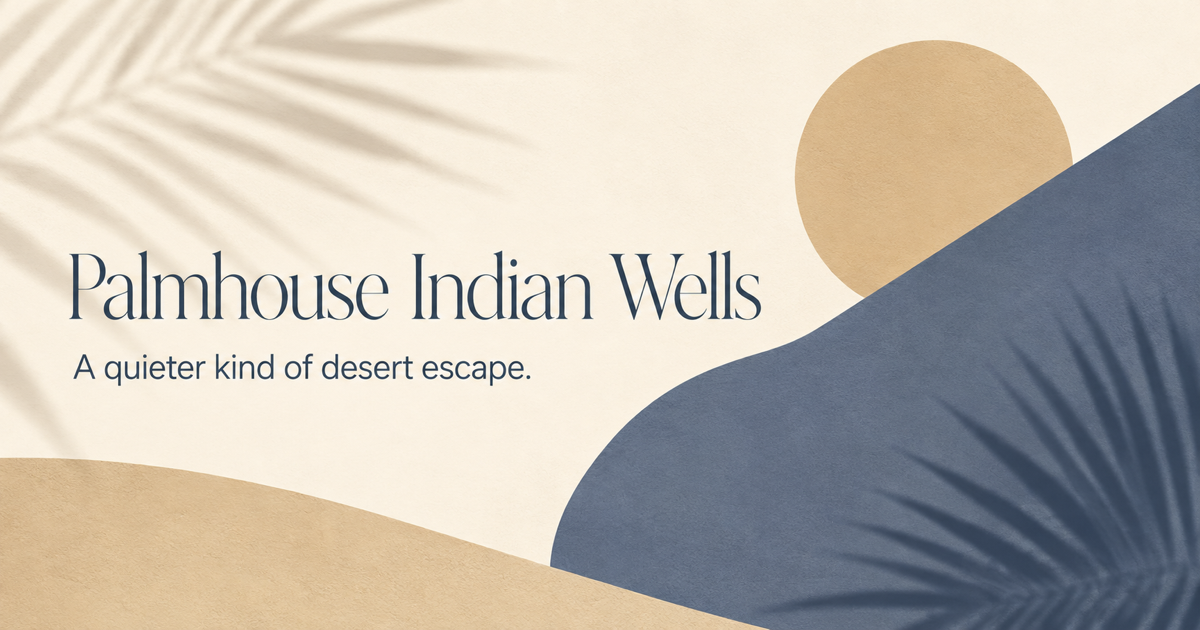
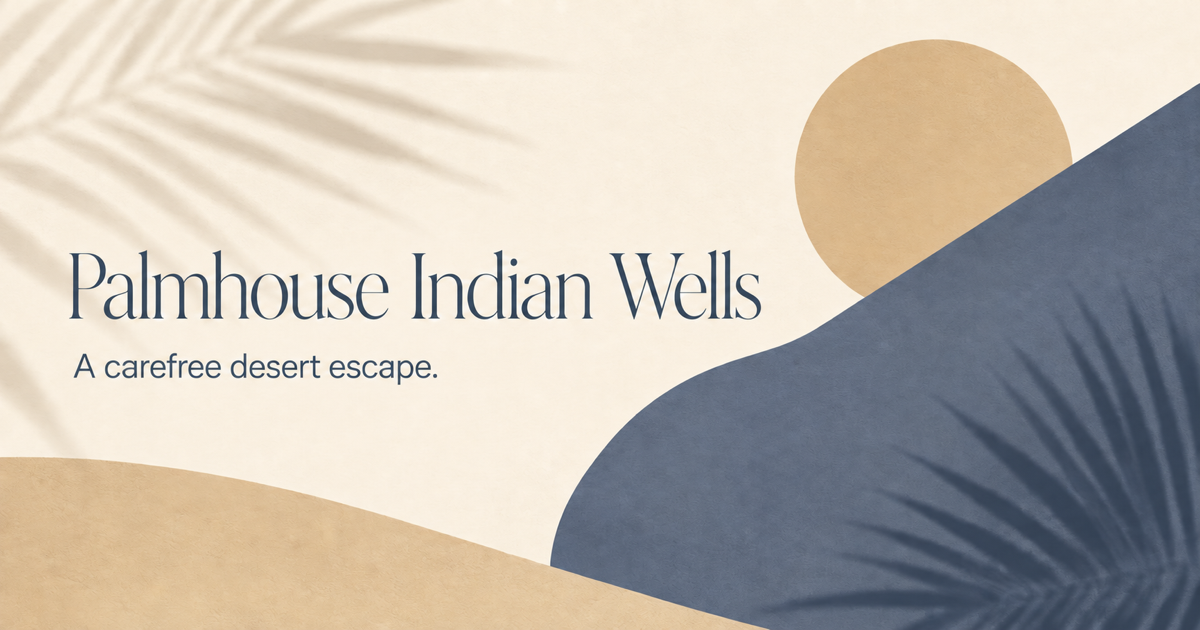
Apply final homepage copy and card refinements

diff --git a/app/page.tsx b/app/page.tsx
@@ -284,7 +284,7 @@ export default function Home() {
 
       <section className="hero" aria-labelledby="hero-title">
         <div className="hero-copy">
-          <h1 id="hero-title">A quieter kind of <em>desert escape.</em></h1>
+          <h1 id="hero-title">A carefree <em>desert escape.</em></h1>
           <p className="hero-intro">
             A private three-bedroom retreat with a pool, spa, and room to settle in—just
             minutes from world-class tennis, golf, and the best of the Coachella Valley.
@@ -358,7 +358,7 @@ export default function Home() {
       <section className="gallery-section" id="gallery" aria-labelledby="gallery-title">
         <div className="gallery-heading">
           <div>
-            <h2 id="gallery-title">Made for<br /><em>slow mornings.</em></h2>
+            <h2 id="gallery-title">For any occasion<br /><em>picture yourself here.</em></h2>
           </div>
           <button className="text-button" type="button" onClick={() => setActivePhoto(0)}>
             View all {photos.length} photos <span>↗</span>
@@ -381,24 +381,24 @@ export default function Home() {
 
       <section className="availability-section" id="stay" aria-labelledby="availability-title">
         <div className="availability-intro">
-          <h2 id="availability-title">Find your place<br /><em>in the sun.</em></h2>
+          <h2 id="availability-title">Claim your place<br /><em>in the sun.</em></h2>
           <p>
-            This calendar reads current availability from the Evolve listing. Select a
-            possible stay, then continue to Evolve for the latest rate, policies, and secure
-            booking.
+            View availability below. Then, select <strong>BOOK YOUR STAY</strong> which will
+            take you to our booking agent website, Evolve, for the latest rates, policies and
+            secure booking.
           </p>
           <div className="calendar-legend">
             <span><i className="available-dot" /> Available</span>
             <span><i className="unavailable-dot" /> Booked</span>
             <span><i className="limited-dot" /> Checkout only</span>
           </div>
-          <p className="source-note">
-            {calendarError
-              ? 'Live calendar is temporarily unavailable. Evolve has the current dates.'
-              : calendar
-                ? 'Live availability loaded from Evolve.'
+          {!calendar && (
+            <p className="source-note">
+              {calendarError
+                ? 'Live calendar is temporarily unavailable. Evolve has the current dates.'
                 : 'Loading live availability…'}
-          </p>
+            </p>
+          )}
         </div>
         <div className="calendar-panel">
           <div className="calendar-controls">
@@ -482,7 +482,6 @@ export default function Home() {
         <div className="destination-grid">
           {siteContent.destinations.map((item) => (
             <a href={item.href} target="_blank" rel="noreferrer" key={item.title}>
-              <span className="destination-number">{item.number}</span>
               <p>{item.label}</p>
               <h3>{item.title}</h3>
               <div><span>{item.copy}</span><strong>{item.meta}</strong></div>
@@ -508,9 +507,8 @@ export default function Home() {
             </p>
           </div>
           <div className="season-grid">
-            {siteContent.seasons.map((block, index) => (
+            {siteContent.seasons.map((block) => (
               <article key={block.season}>
-                <span>0{index + 1}</span>
                 <p>{block.season}</p>
                 <h3>{block.tone}</h3>
                 <ul>

diff --git a/app/globals.css b/app/globals.css
@@ -911,21 +911,11 @@ h2 em {
   color: var(--ink);
 }
 
-.destination-number {
-  color: var(--sand);
-  font-family: var(--serif);
-  font-size: 17px;
-}
-
-.destination-grid > a:hover .destination-number {
-  color: var(--clay);
-}
-
 .destination-grid > a > p {
   font-size: 12px;
   font-weight: 700;
   letter-spacing: 0.17em;
-  margin-top: 38px;
+  margin-top: 0;
   text-transform: uppercase;
 }
 
@@ -1070,18 +1060,12 @@ h2 em {
   padding: 28px;
 }
 
-.season-grid article > span {
-  color: var(--sand);
-  font-family: var(--serif);
-  font-size: 18px;
-}
-
 .season-grid article > p {
   color: rgba(255, 254, 251, 0.76);
   font-size: 12px;
   font-weight: 700;
   letter-spacing: 0.14em;
-  margin-top: 46px;
+  margin-top: 0;
   text-transform: uppercase;
 }
 

diff --git a/app/layout.tsx b/app/layout.tsx
@@ -23,13 +23,13 @@ export const metadata: Metadata = {
   },
   openGraph: {
     title: 'Palmhouse Indian Wells',
-    description: 'A quieter kind of desert escape.',
+    description: 'A carefree desert escape.',
     images: [
       {
         url: '/og.png',
         width: 1200,
         height: 630,
-        alt: 'Palmhouse Indian Wells — A quieter kind of desert escape.',
+        alt: 'Palmhouse Indian Wells — A carefree desert escape.',
       },
     ],
     locale: 'en_US',
@@ -38,7 +38,7 @@ export const metadata: Metadata = {
   twitter: {
     card: 'summary_large_image',
     title: 'Palmhouse Indian Wells',
-    description: 'A quieter kind of desert escape.',
+    description: 'A carefree desert escape.',
     images: ['/og.png'],
   },
 };
